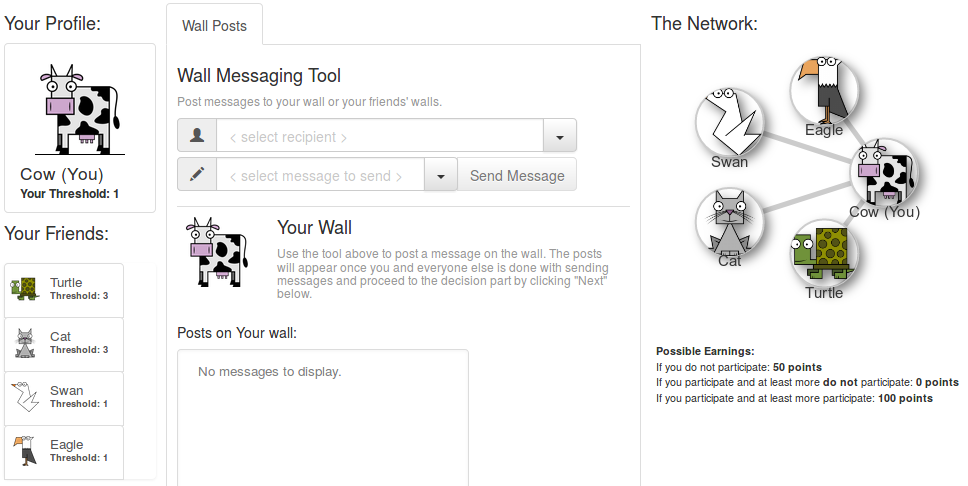
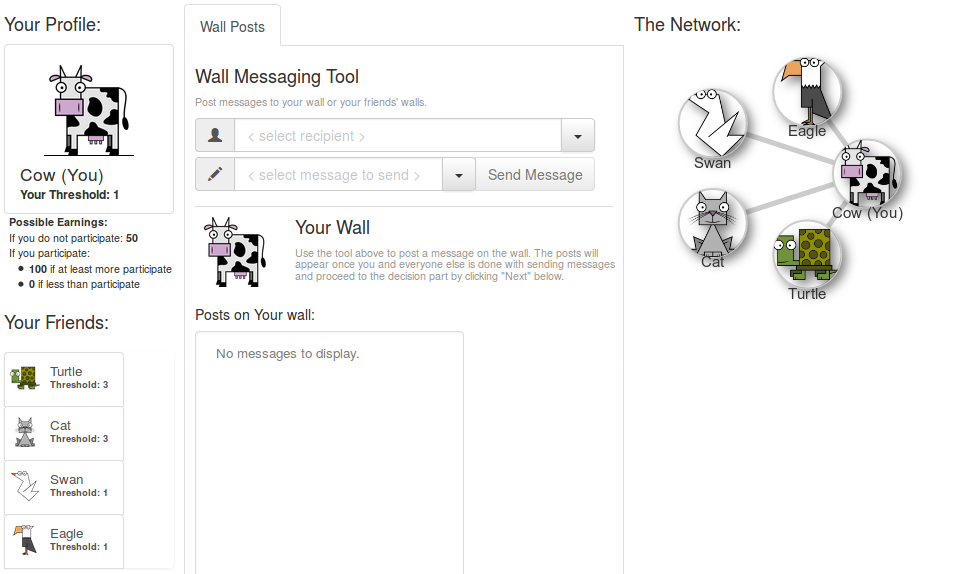
main page styling/tour screenshot update

diff --git a/_static/global/wall-separate.css b/_static/global/wall-separate.css
@@ -76,10 +76,14 @@
     width: 120px;
 }
 
+#wall .card-subtitle{
+    font-size: 8pt;
+}
+
 #wall .titleContainer{
     padding: 0;
     padding-left: 10px;
-    max-width: 350px;
+    max-width: 330px;
 }
 .shiftleft {
     padding-left: 0px;
